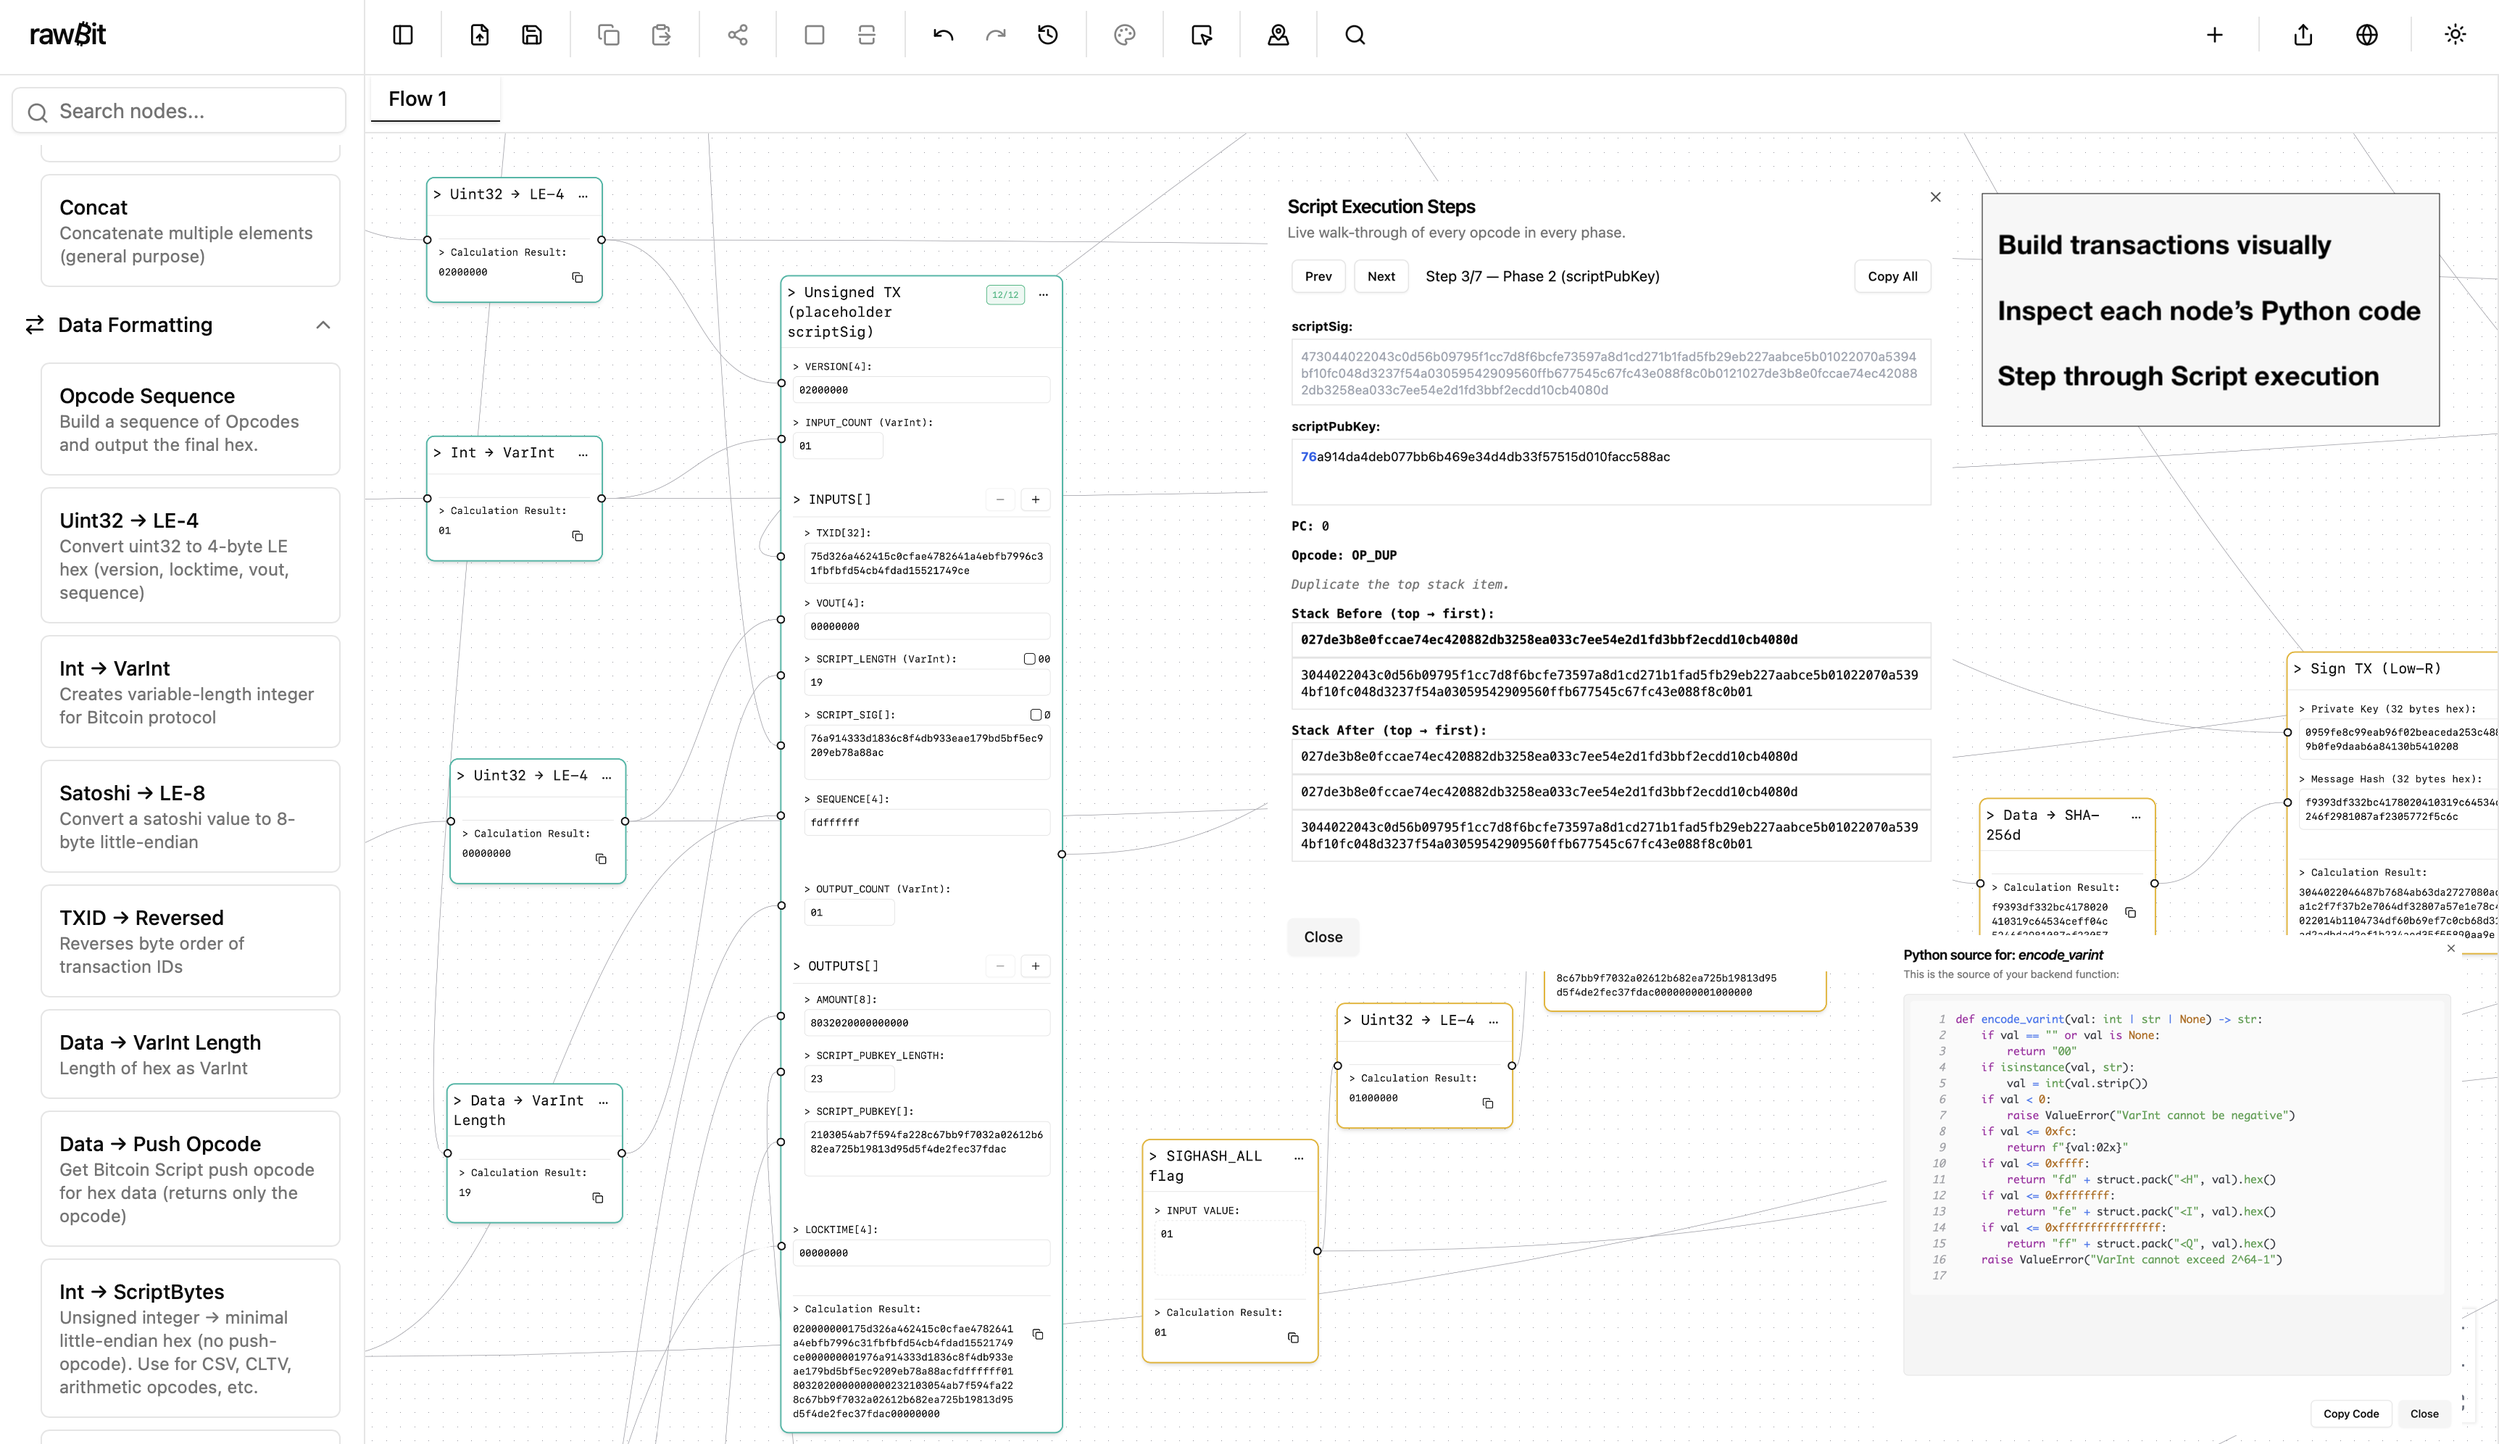
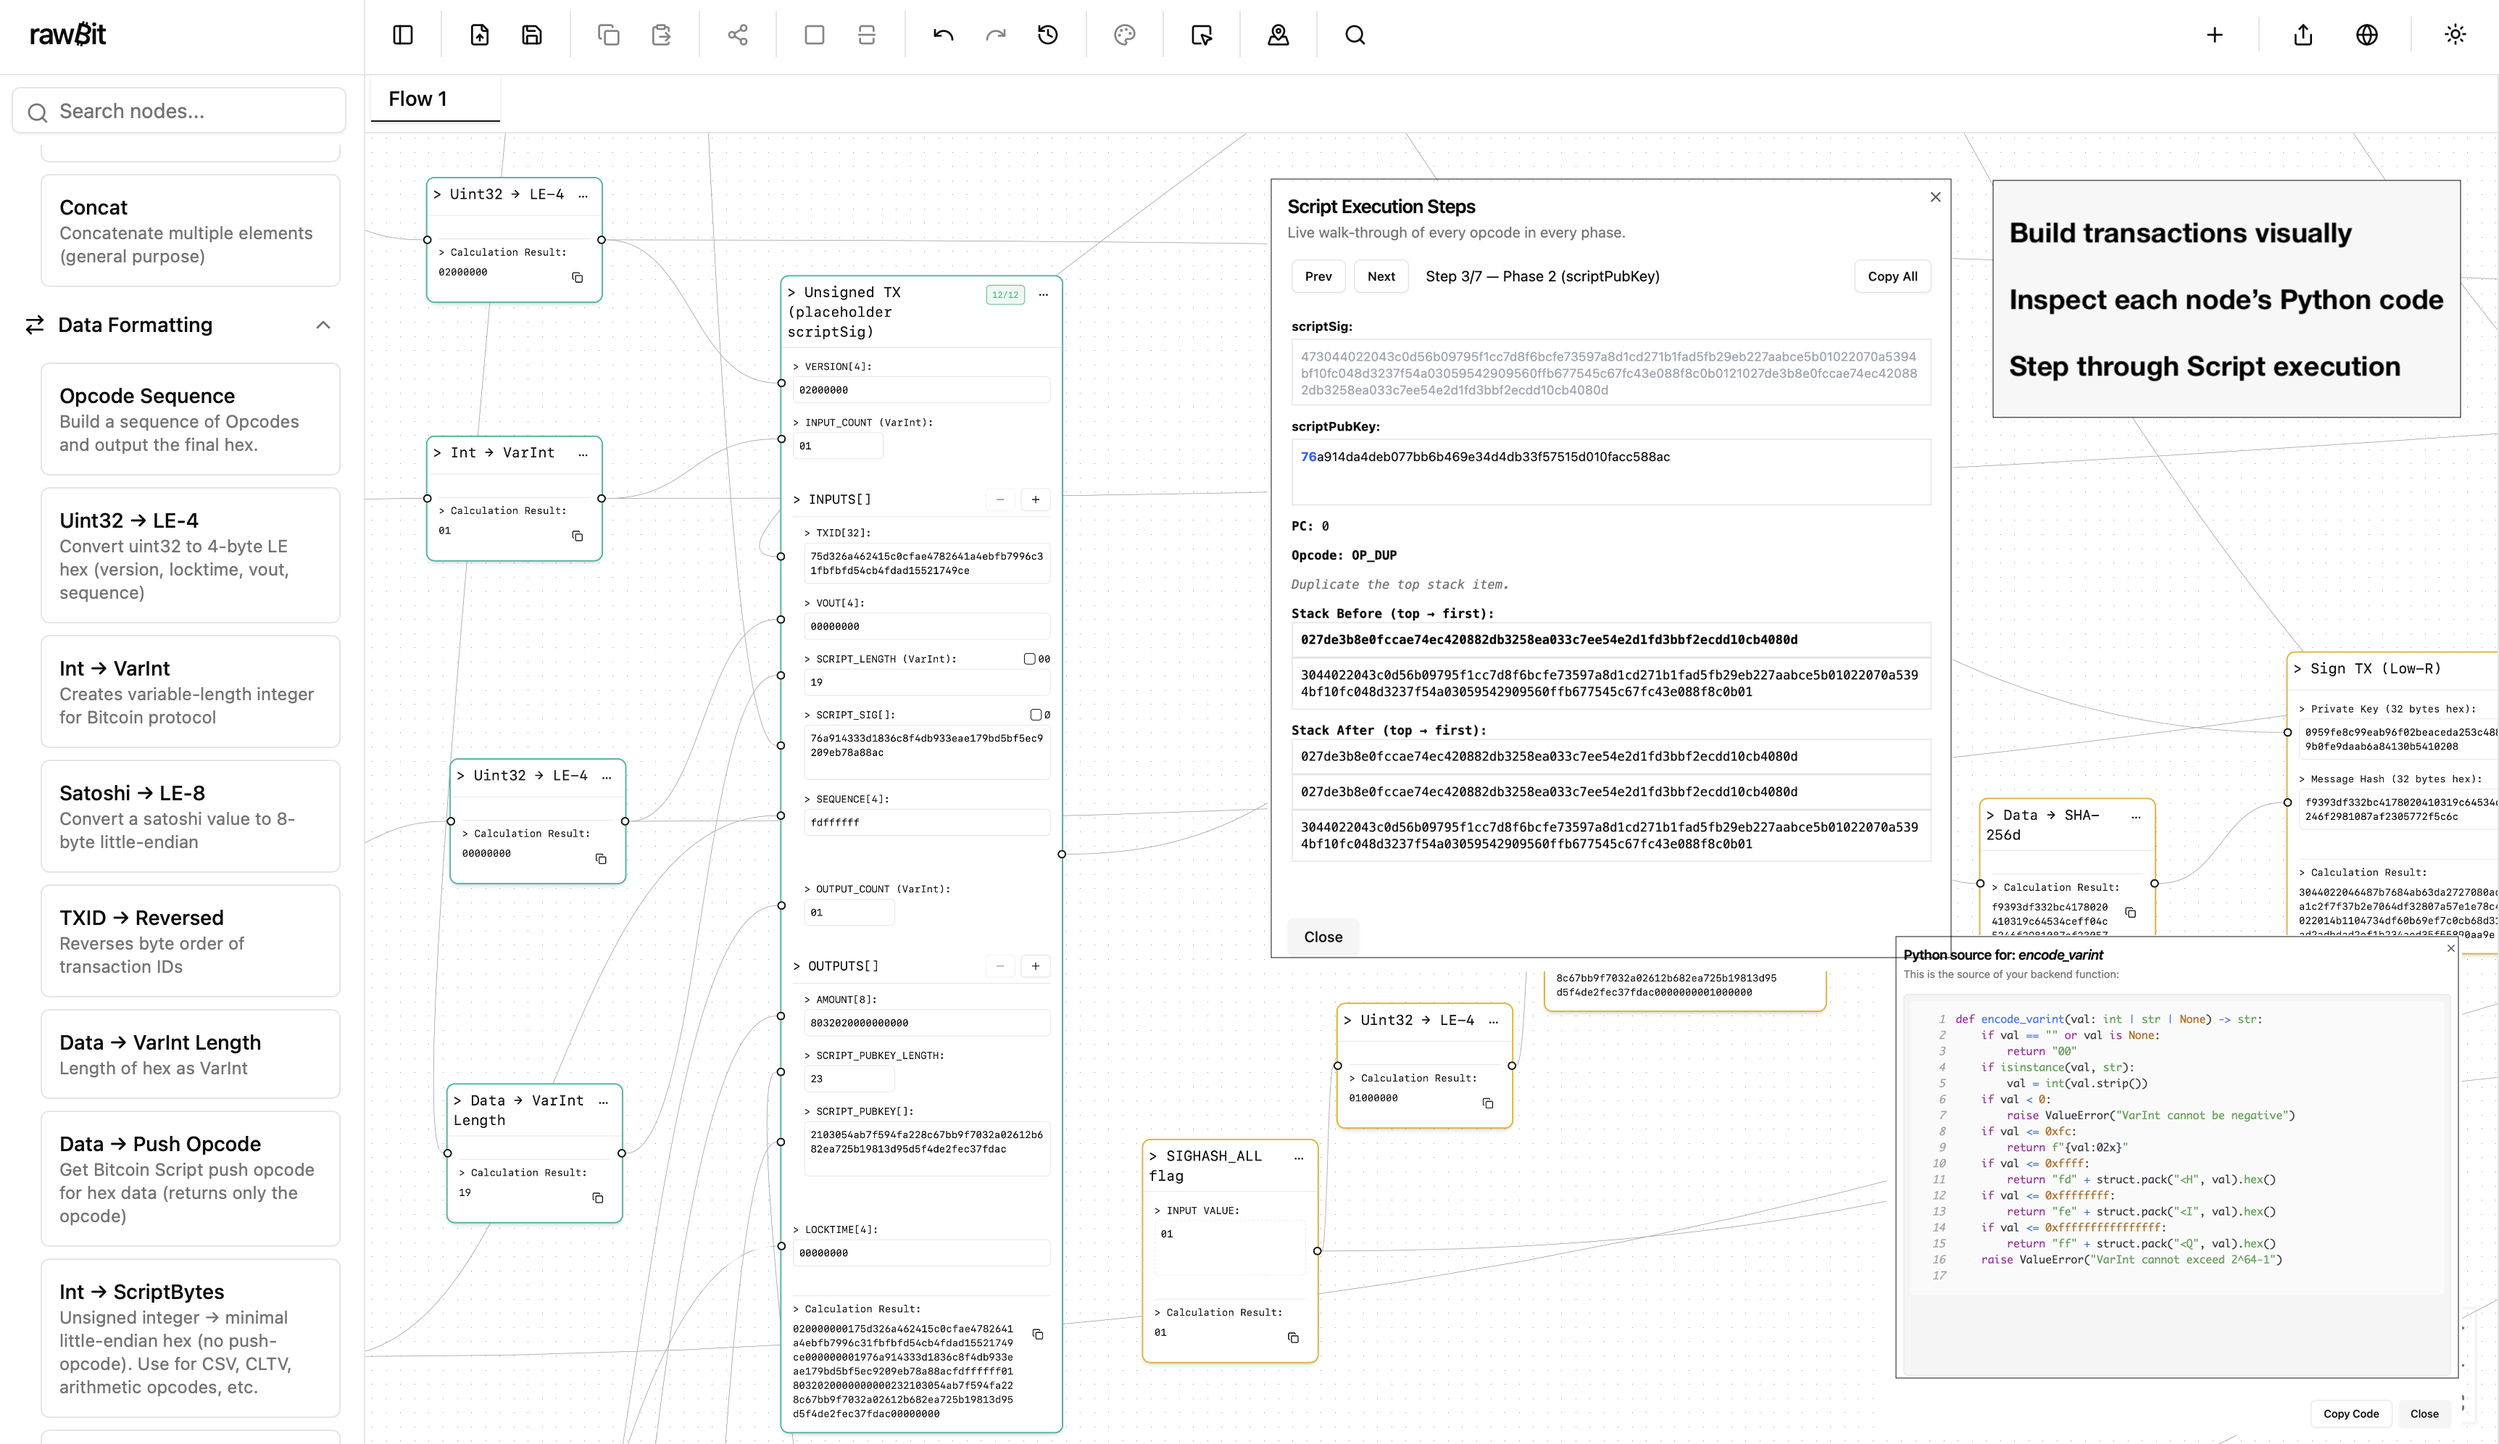
docs: polish README and documentation

Changed region(s): [[0.7758, 0.1556, 0.993, 0.2801]]

diff --git a/README.md b/README.md
@@ -1,6 +1,6 @@
 # rawBit
 
-_rawBit is a visual, node-based editor with an integrated step-by-step Bitcoin Script debugger for constructing and understanding Bitcoin transactions. Connect inputs, keys, and scripts on a canvas, then step through Bitcoin Script execution and watch the stack change after each opcode._
+_rawBit is a visual, node-based editor for constructing Bitcoin transactions and understanding how they are validated. Build transactions from inputs, keys, scripts, signatures, hashes, and witnesses, then step through Bitcoin Script execution opcode by opcode._
 
 **Try it now:** [rawbit.io](https://rawbit.io) | **Run locally:** See [Quick start](#quick-start-local) below
 
